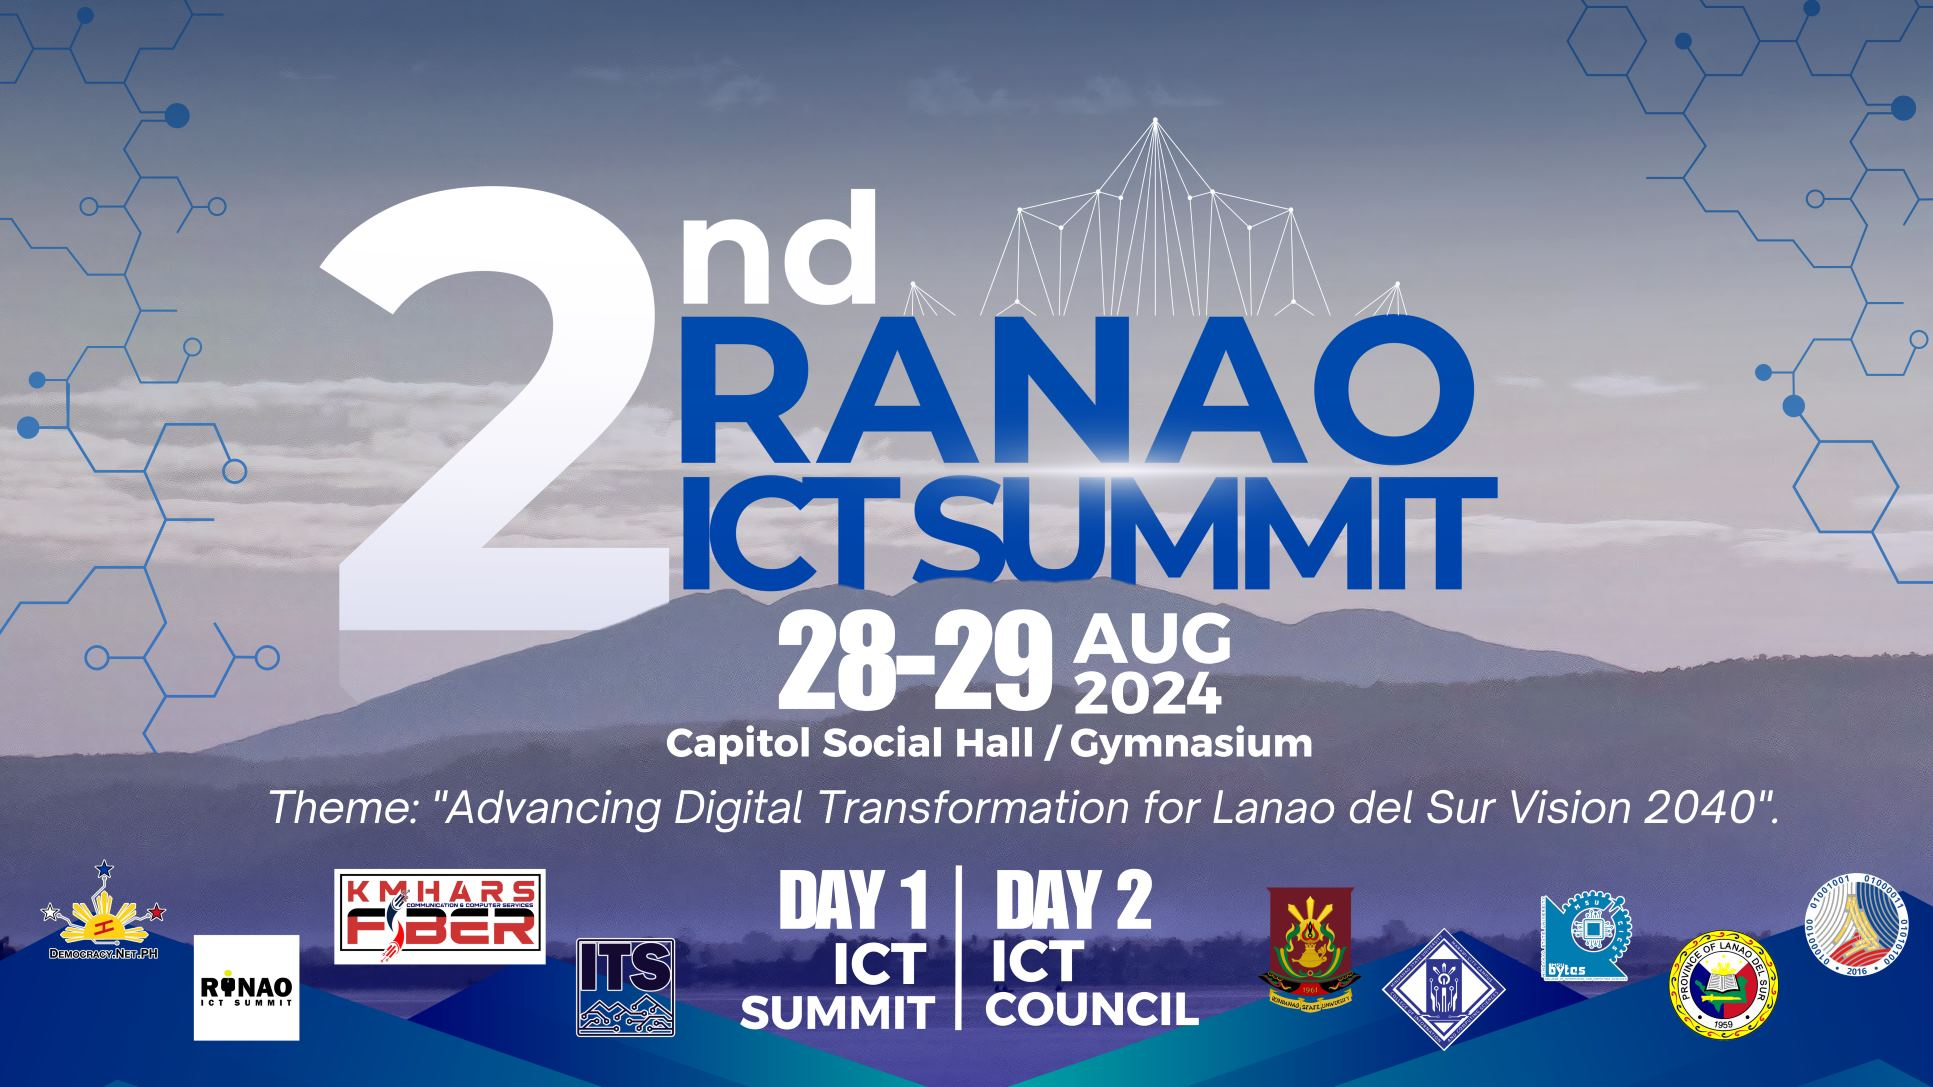
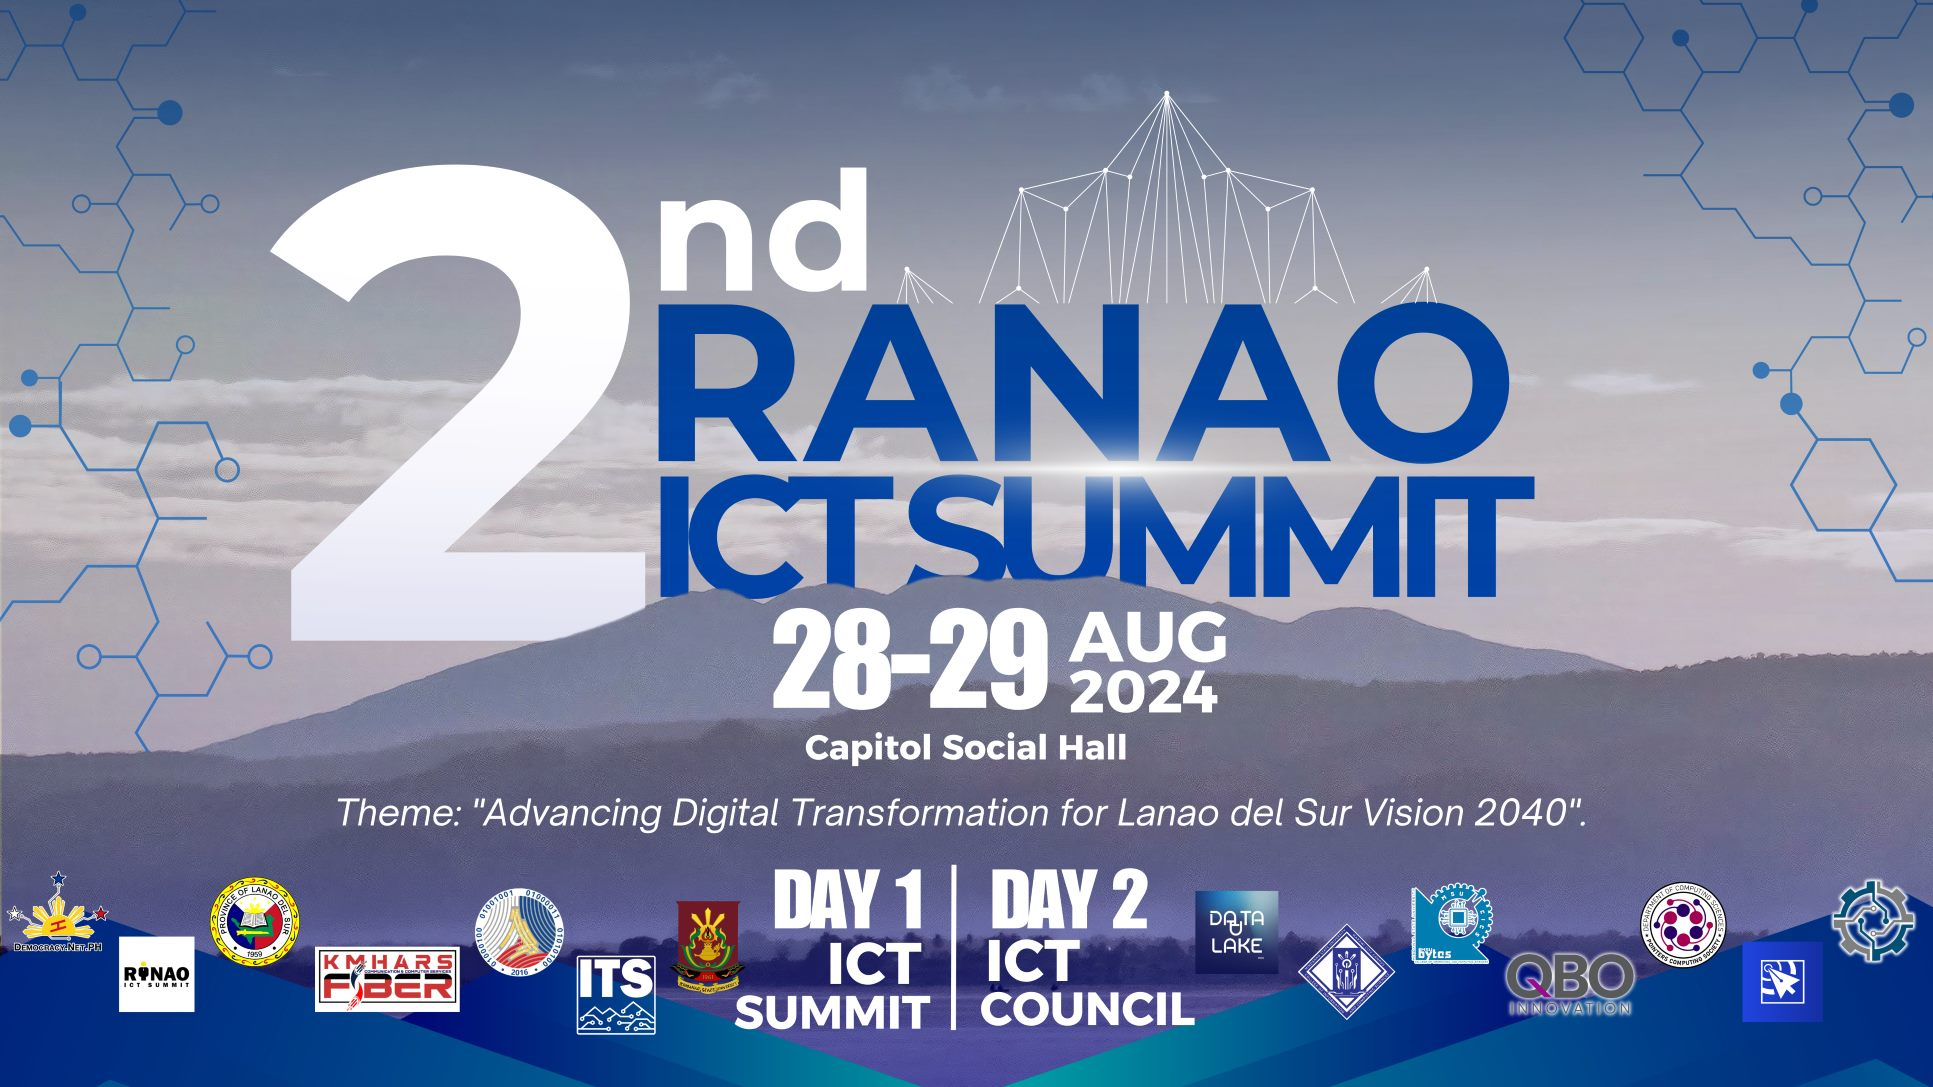
update contents

diff --git a/src/pages/IndexPage.vue b/src/pages/IndexPage.vue
@@ -82,8 +82,10 @@
         </ul>
 
         <p class="text-h6">
-          <q-btn class="text-bold" dense>Register Now</q-btn> and be part of the
-          digital revolution!
+          <q-btn color="primary" class="text-bold" icon-right="ads_click"
+            >Register Now&nbsp;</q-btn
+          >
+          and be part of the digital revolution!
         </p>
       </div>
     </div>
@@ -104,53 +106,13 @@
         class="row fit justify-center items-center q-gutter-xl q-py-lg q-px-xl"
       >
         <SpeakerCard
-          avatar="https://www.realtechnirman.com/wp-content/uploads/2017/02/man-dummy.jpg"
-          company-logo="https://scontent-mnl1-2.xx.fbcdn.net/v/t39.30808-1/366598395_122103301430005970_7083018911420604229_n.jpg?stp=dst-jpg_p200x200&_nc_cat=109&ccb=1-7&_nc_sid=f4b9fd&_nc_eui2=AeH_P8oUMfBWL8xeAym5H3EShcHhQ3PZHfqFweFDc9kd-irSWu3rT258VTtaEW31y6g&_nc_ohc=mo8mxVziV0cQ7kNvgGLXa0t&_nc_ht=scontent-mnl1-2.xx&oh=00_AYAo475oTYKt3AZbWvmd-F5Wz4Lj3CnrtJJIjYzl2Uaukg&oe=66B0851C"
-          full-name="MAHID A. MACADATO"
-          :position="'Communications Officer'"
-          expertise="Communications Specialist"
-        />
-        <SpeakerCard
-          avatar="https://media.licdn.com/dms/image/D5603AQEg6gM0GPKWTA/profile-displayphoto-shrink_800_800/0/1684551192284?e=2147483647&v=beta&t=pjWJWw_3RYL4mWYACa7TAi_0EZxrW3Vh3DflL1sYfpw"
-          company-logo="https://th.bing.com/th/id/OIP.uVU4EvwhKGbijAJs7_VM5QHaHa?rs=1&pid=ImgDetMain"
-          full-name="Moslemen M. Macarambon Jr."
-          :position="'President: Democracy.net.ph'"
-          expertise="Innovative Governance"
-        />
-        <SpeakerCard
-          avatar="https://www.aquasafemine.com/wp-content/uploads/2018/06/dummy-woman-570x570.png"
-          company-logo="https://th.bing.com/th/id/OIP.C1qUTEd3TjLOjthcUun7YAHaHa?rs=1&pid=ImgDetMain"
-          full-name="Mudzna M. Asakil"
-          :position="'College Dean'"
-          expertise="Database"
-        />
-        <SpeakerCard
-          avatar="https://www.aquasafemine.com/wp-content/uploads/2018/06/dummy-woman-570x570.png"
-          company-logo="https://th.bing.com/th/id/OIP.ow2rjrmA32_uMoiAbwCbJwHaHU?rs=1&pid=ImgDetMain"
-          full-name="Hannah Grace M. Parcon"
-          :position="'Project Focal: DICT IIDB'"
-          expertise="Digital Innovation"
-        />
-        <SpeakerCard
-          avatar="https://www.realtechnirman.com/wp-content/uploads/2017/02/man-dummy.jpg"
-          company-logo="https://th.bing.com/th/id/OIP.ow2rjrmA32_uMoiAbwCbJwHaHU?rs=1&pid=ImgDetMain"
-          full-name="Engr. Amal Salih M. Asum"
-          :position="'Provicial Field Officer'"
-          expertise="Innovative Governance"
-        />
-        <SpeakerCard
-          avatar="https://yt3.googleusercontent.com/ytc/AIdro_nezLkMAII0B_rjmEe_7CulWH488wO5M3mjhLYyquprIg=s160-c-k-c0x00ffffff-no-rj"
-          company-logo="https://avatars.githubusercontent.com/u/51888165?s=200&v=4"
-          full-name="Azreen M. Marohomsalic"
-          :position="'Chief Executive Officer'"
-          expertise="Project Management"
-        />
-        <SpeakerCard
-          avatar="https://avatars.githubusercontent.com/u/74109685?v=4"
-          company-logo="https://avatars.githubusercontent.com/u/51888165?s=200&v=4"
-          full-name="Lucman M. Abdulrachman"
-          :position="'Chief Technology Officer'"
-          expertise="Software Architecture"
+          v-for="speaker in speakers"
+          :key="speaker.fullname"
+          :avatar="speaker.avatar || speaker.defaultAvatar || ''"
+          :company-logo="speaker.companyLogo || ''"
+          :full-name="speaker.fullname"
+          :position="speaker.position"
+          :expertise="speaker.expertise"
         />
       </div>
     </div>
@@ -170,28 +132,15 @@
       <div
         class="row fit justify-center items-center q-gutter-xl q-py-lg q-px-xl"
       >
-        <TopicCard schedule="Aug 28" class="col-12 col-md-5">
-          <div>DIGITAL INNOVATION</div>
+        <TopicCard
+          v-for="topic in topics"
+          :key="topic.name + topic.schedule"
+          :schedule="topic.schedule"
+          class="col-12 col-md-5"
+        >
+          <div>{{ topic.name }}</div>
           <ul>
-            <li>ICT Industry Development for Lanao del Sur</li>
-            <li>Role and Updates of Academe in ICT</li>
-            <li>
-              Philippine Skills Framework (PSF) for ICT-related industries
-            </li>
-          </ul>
-        </TopicCard>
-        <TopicCard schedule="Aug 28" class="col-12 col-md-5">
-          <div>Governance</div>
-          <ul>
-            <li>IT Governance and ICT Council in LGU LDS Province</li>
-            <li>LDS ICT Ecosystem: Opportunities</li>
-          </ul>
-        </TopicCard>
-        <TopicCard schedule="Aug 29" class="col-12 col-md-5">
-          <div>ICT Council and ICT Trends</div>
-          <ul>
-            <li>ICT Council 101</li>
-            <li>Cybersecurity Best Practices</li>
+            <li v-for="line in topic.contents" :key="line">{{ line }}</li>
           </ul>
         </TopicCard>
       </div>
@@ -214,8 +163,9 @@
       >
         <InstitutionCard
           v-for="s in sponsors"
-          :key="s"
-          :logo="s"
+          :key="s.name || s.logo"
+          :logo="s.logo"
+          :bg="s.background"
         ></InstitutionCard>
       </div>
     </div>
@@ -399,9 +349,10 @@
             <div class="text-center">
               <q-btn
                 v-if="!profileStore.theUser?.institution"
-                icon="register"
+                icon-right="ads_click"
+                color="primary"
                 :to="{ name: 'start', params: { action: 'signup' } }"
-                >Register Now</q-btn
+                >Register Now &nbsp;</q-btn
               >
             </div>
           </div>
@@ -432,6 +383,24 @@ import { useRoute, useRouter } from 'vue-router';
 import { useProfileStore } from 'src/stores/profile-store';
 import { RafflePrice } from 'src/entities';
 import { useRaffleDrawStore } from 'src/stores/raffle-draw-store';
+type Speaker = {
+  fullname: string;
+  position: string;
+  expertise: string;
+  companyLogo?: string;
+  avatar?: string;
+  defaultAvatar?: string;
+};
+type Sponsor = {
+  logo: string;
+  background?: string;
+  name?: string;
+};
+type Topic = {
+  schedule: string;
+  name: string;
+  contents: string[];
+};
 defineOptions({
   name: 'IndexPage',
 });
@@ -447,18 +416,124 @@ $router.afterEach((route) => {
 const slide = ref('0');
 const attendees = ref(300);
 const prices = ref<RafflePrice[]>([]);
-const sponsors = ref<string[]>([]);
+const sponsors = ref<Sponsor[]>([]);
+const speakers = ref<Speaker[]>([]);
+const topics = ref<Topic[]>([]);
+
+const defaultManAvatar = ref<string>();
+const defaultWomanAvatar = ref<string>();
 // const participating = ref<string[]>([]);
 onMounted(async () => {
+  defaultManAvatar.value = (await import('../assets/man-dummy.webp')).default;
+  defaultWomanAvatar.value = (
+    await import('../assets/dummy-woman.png')
+  ).default;
+
   sponsors.value = [
-    (await import('../assets/logos/LDS Logo.png')).default,
-    (await import('../assets/logos/DICTBARMM.jpg.png')).default,
-    (await import('../assets/logos/MSU CICS.png')).default,
-    (await import('../assets/logos/ITSMarawi Logo.png')).default,
-    (await import('../assets/logos/KHMARS.jpg')).default,
-    (await import('../assets/logos/democracynetph.jpg')).default,
-    (await import('../assets/logos/MSU OFFICIAL LOGO.png')).default,
-    (await import('../assets/logos/MSU-BYTES.png')).default,
+    { logo: (await import('../assets/logos/LDS Logo.png')).default },
+    { logo: (await import('../assets/logos/ICTO.jpg')).default },
+    { logo: (await import('../assets/logos/DICT Logo.png')).default },
+    { logo: (await import('../assets/logos/MSU CICS.png')).default },
+    { logo: (await import('../assets/logos/ITSMarawi Logo.png')).default },
+    { logo: (await import('../assets/logos/KHMARS.jpg')).default },
+    { logo: (await import('../assets/logos/DemocracyNetPH.png')).default },
+    { logo: (await import('../assets/logos/Data Lake.jpg')).default },
+    {
+      logo: (await import('../assets/logos/DITO_PH_Logo-Transparent.png'))
+        .default,
+    },
+    {
+      logo: (
+        await import(
+          '../assets/logos/QBOInnovation_gray_accented_stacked_allcaps.png'
+        )
+      ).default,
+    },
+    {
+      logo: (await import('../assets/logos/Biond Logo.png')).default,
+      background: 'grey',
+    },
+    { logo: (await import('../assets/logos/MSU OFFICIAL LOGO.png')).default },
+    { logo: (await import('../assets/logos/MSU-BYTES.png')).default },
+    { logo: (await import('../assets/logos/The Cursor.png')).default },
+  ];
+
+  speakers.value = [
+    {
+      fullname: 'MAHID A. MACADATO',
+      position: 'Communications Officer',
+      expertise: 'Communications Specialist',
+      avatar: defaultManAvatar.value,
+      defaultAvatar: defaultManAvatar.value,
+      companyLogo: (await import('../assets/logos/LDS Logo.png')).default,
+    },
+    {
+      fullname: 'Moslemen M. Macarambon Jr.',
+      position: 'President: Democracy.net.ph',
+      expertise: 'Innovative Governance',
+      avatar:
+        'https://media.licdn.com/dms/image/D5603AQEg6gM0GPKWTA/profile-displayphoto-shrink_800_800/0/1684551192284?e=2147483647&v=beta&t=pjWJWw_3RYL4mWYACa7TAi_0EZxrW3Vh3DflL1sYfpw',
+      defaultAvatar: defaultManAvatar.value,
+      companyLogo: (await import('../assets/logos/DemocracyNetPH.png')).default,
+    },
+    {
+      fullname: 'Mudzna M. Asakil',
+      position: 'MSU CICS, College Dean',
+      expertise: 'Database',
+      avatar: defaultWomanAvatar.value,
+      defaultAvatar: defaultWomanAvatar.value,
+      companyLogo: (await import('../assets/logos/MSU CICS.png')).default,
+    },
+    {
+      fullname: 'Hannah Grace M. Parcon',
+      position: 'Project Focal: DICT IIDB',
+      expertise: 'Digital Innovation',
+      avatar: defaultWomanAvatar.value,
+      defaultAvatar: defaultWomanAvatar.value,
+      companyLogo: (await import('../assets/logos/DICTBARMM.jpg.png')).default,
+    },
+    {
+      fullname: 'Engr. Amal Salih M. Asum',
+      position: 'Provicial Field Officer',
+      expertise: 'Innovative Governance',
+      avatar: defaultManAvatar.value,
+      defaultAvatar: defaultManAvatar.value,
+      companyLogo: (await import('../assets/logos/DICTBARMM.jpg.png')).default,
+    },
+    {
+      fullname: 'Azreen M. Marohomsalic',
+      position: 'ITS Marawi, CEO',
+      expertise: 'Project Management',
+      avatar:
+        'https://yt3.googleusercontent.com/ytc/AIdro_nezLkMAII0B_rjmEe_7CulWH488wO5M3mjhLYyquprIg=s160-c-k-c0x00ffffff-no-rj',
+      defaultAvatar: defaultManAvatar.value,
+      companyLogo: (await import('../assets/logos/ITSMarawi Logo.png')).default,
+    },
+  ];
+
+  topics.value = [
+    {
+      schedule: 'Aug 28',
+      name: 'DIGITAL INNOVATION',
+      contents: [
+        'ICT Industry Development for Lanao del Sur',
+        'Role and Updates of Academe in ICT',
+        'Philippine Skills Framework (PSF) for ICT-related industries',
+      ],
+    },
+    {
+      schedule: 'Aug 28',
+      name: 'Governance',
+      contents: [
+        'IT Governance and ICT Council in LGU LDS Province',
+        'LDS ICT Ecosystem: Opportunities',
+      ],
+    },
+    {
+      schedule: 'Aug 29',
+      name: 'ICT Council and ICT Trends',
+      contents: ['ICT Council 101', 'Cybersecurity Best Practices'],
+    },
   ];
   handleHash();
   attendees.value = await profileStore.countRegisters();

diff --git a/src/components/InstitutionCard.vue b/src/components/InstitutionCard.vue
@@ -1,6 +1,11 @@
 <template>
   <div style="width: 200px">
-    <q-card class="bg-white q-pt-xl full-width column" style="height: 250px">
+    <q-card
+      class="bg-white q-pt-xl full-width column"
+      :class="bg ? 'bg-' + bg : ''"
+      style="height: 250px"
+      :style="bg ? 'background-color:' + bg : ''"
+    >
       <q-card-section class="q-py-none">
         <q-img :src="logo" />
       </q-card-section>
@@ -11,5 +16,6 @@
 <script lang="ts" setup>
 defineProps<{
   logo: string;
+  bg?: string;
 }>();
 </script>

diff --git a/src/components/SpeakerCard.vue b/src/components/SpeakerCard.vue
@@ -1,6 +1,6 @@
 <template>
-  <div style="width: 200px">
-    <q-card class="bg-white q-pt-xl full-width">
+  <div style="width: 205px">
+    <q-card class="bg-white q-pt-xl full-width" style="height: 250px">
       <q-card-section>
         <div class="absolute" style="right: 5px; top: -80px">
           <q-avatar size="90px" color="grey">
